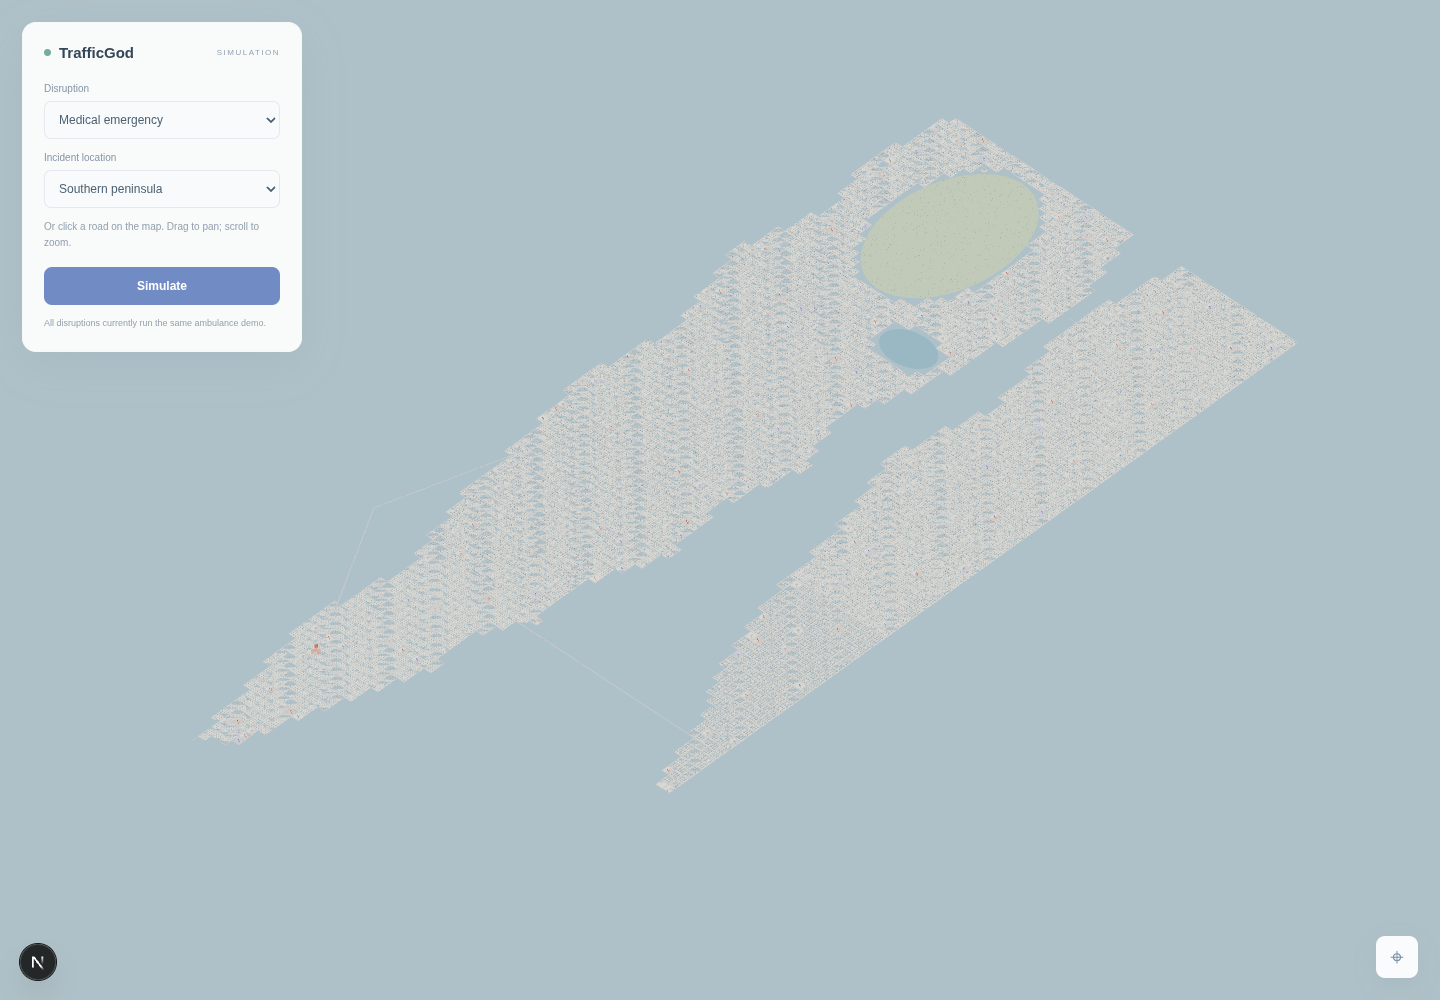
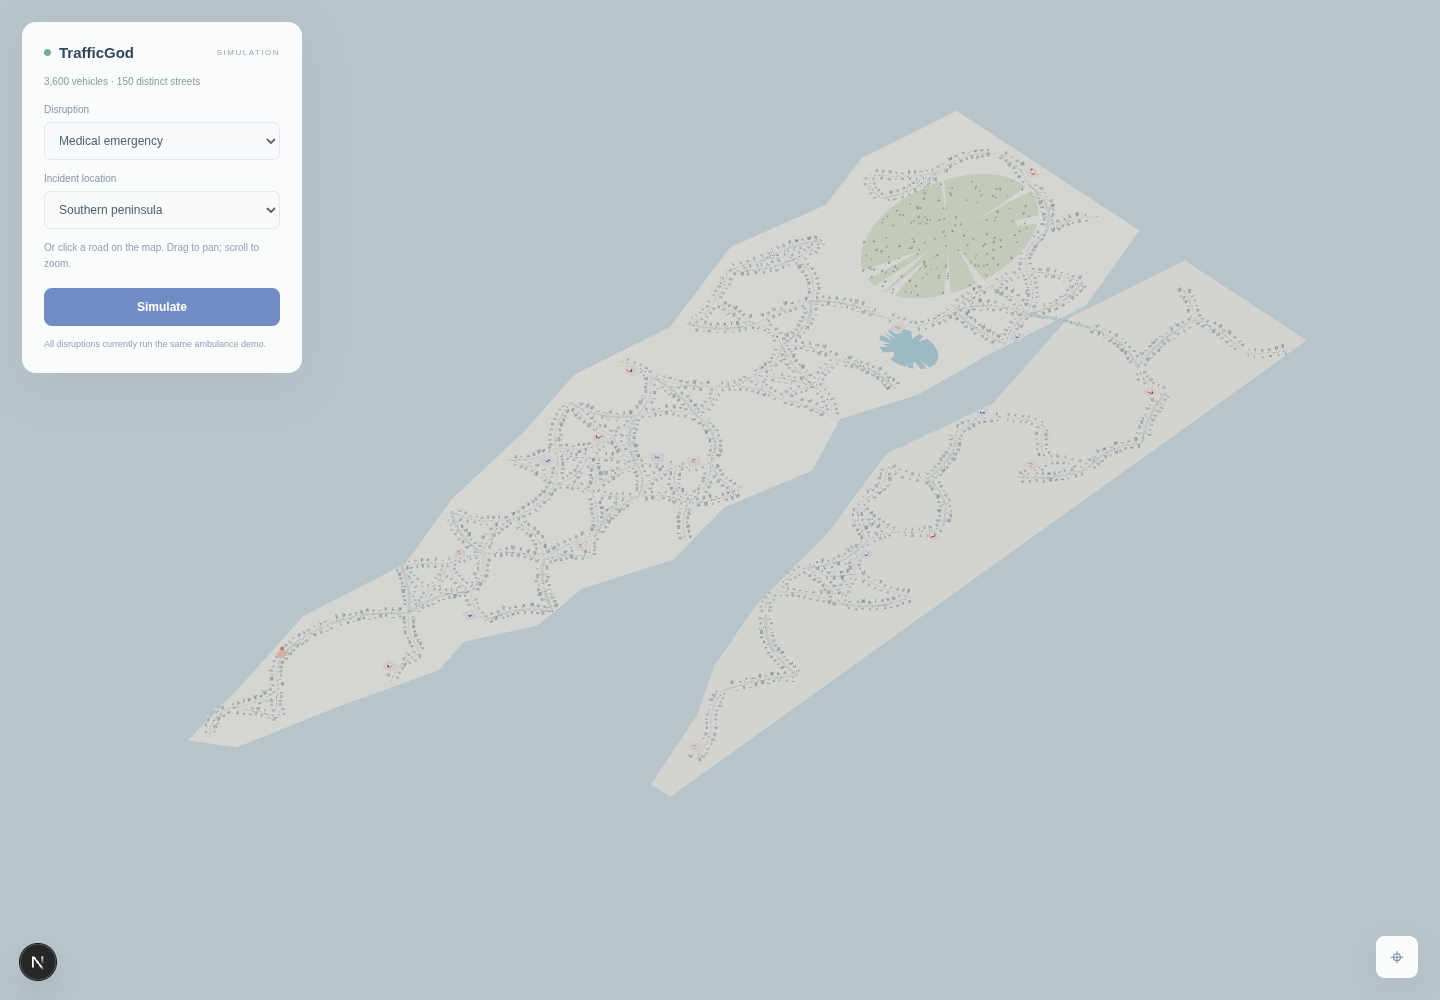
Correct coastal terrain depth and mix vehicle paints on every road

Changed region(s): [[0.125, 0.093, 0.9062, 0.806], [0.0, 0.062, 0.2188, 0.372], [0.0938, 0.062, 0.125, 0.093]]

diff --git a/3d_models/maps/city-map.js b/3d_models/maps/city-map.js
@@ -36,12 +36,12 @@ export function createCityMap() {
   function polygon(points,color,y,name){
     const shape=new THREE.Shape();points.forEach(([x,z],i)=>i?shape.lineTo(x,-z):shape.moveTo(x,-z));shape.closePath();
     const g=new THREE.ShapeGeometry(shape);g.rotateX(-Math.PI/2);
-    const m=new THREE.Mesh(g,new THREE.MeshStandardMaterial({color,roughness:1,polygonOffset:true,polygonOffsetFactor:1,polygonOffsetUnits:3}));m.position.y=y;m.name=name;m.receiveShadow=true;city.add(m);
+    const m=new THREE.Mesh(g,new THREE.MeshStandardMaterial({color,roughness:1,polygonOffset:true,polygonOffsetFactor:0,polygonOffsetUnits:1}));m.position.y=y;m.name=name;m.receiveShadow=true;city.add(m);
   }
   const sea=new THREE.Mesh(new THREE.PlaneGeometry(20000,20000),new THREE.MeshStandardMaterial({color:'#b4cfde',roughness:1}));sea.rotation.x=-Math.PI/2;sea.position.y=-.15;sea.name='sea-and-harbor';city.add(sea);
   polygon(PENINSULA,'#edf0eb',.02,'peninsula');polygon(MAINLAND,'#e9eee8',.02,'mainland');
   for(const [name,x,z,rx,rz,color] of [['forest',-1200,-8900,1350,2000,'#c7d9c0'],['lake',400,-6100,650,450,'#93bed5']]){
-    const m=new THREE.Mesh(new THREE.CircleGeometry(1,48),new THREE.MeshStandardMaterial({color,roughness:1,polygonOffset:true,polygonOffsetFactor:-1,polygonOffsetUnits:-3}));
+    const m=new THREE.Mesh(new THREE.CircleGeometry(1,48),new THREE.MeshStandardMaterial({color,roughness:1,polygonOffset:true,polygonOffsetFactor:0,polygonOffsetUnits:-1}));
     m.rotation.x=-Math.PI/2;m.position.set(x*S,.07,z*S);m.scale.set(rx*S,rz*S,1);m.name=name;city.add(m);
   }
   let treeCount=0,buildingCount=0;

diff --git a/simulation/demo-controller.js b/simulation/demo-controller.js
@@ -83,7 +83,7 @@ export class CivilianTraffic {
       const road=this.roads[i%this.roads.length],reverse=!road.oneWay&&Math.floor(i/this.roads.length)%2===1;
       let kind=i%20<12?'bike':i%20<19?'car':'truck';if(road.lanes===1&&kind==='truck')kind='car';
       const model=kind==='bike'?BIKES[i%BIKES.length]:kind==='car'?CARS[(i+Math.floor(i/20))%CARS.length]:TRUCKS[i%TRUCKS.length];
-      const agent={id:i,road:road.id,a:reverse?road.b:road.a,b:reverse?road.a:road.b,t:this.random()*.95,speed:kind==='bike'?7+this.random()*4:5+this.random()*4,kind,model,colorIndex:i%6,lane:i%2,offset:0,stopped:false,pose:null};
+      const agent={id:i,road:road.id,a:reverse?road.b:road.a,b:reverse?road.a:road.b,t:this.random()*.95,speed:kind==='bike'?7+this.random()*4:5+this.random()*4,kind,model,colorIndex:(i+Math.floor(i/this.roads.length))%6,lane:i%2,offset:0,stopped:false,pose:null};
       agent.offset=this.laneOffset(agent,road);this.agents.push(agent);
     }
   }

diff --git a/tests/simulation.test.js b/tests/simulation.test.js
@@ -95,3 +95,13 @@ test('dense mixed traffic covers all 150 roads and stays batched for rendering',
   assert.ok(traffic.agents.every(a=>Object.values(a.pose).every(Number.isFinite)));
   fleet.dispose();disposeCityMap(city);
 });
+
+test('a clicked point halfway along a curved road is reached exactly, then the ambulance returns',()=>{
+  const city=createCityMap(),map=city.userData,road=map.roads.find(r=>!r.bridge&&r.length>300),p=road.points[8],c=new AmbulanceDemoController(map);
+  c.start(road.a,'accident',{x:p.x,z:p.z,roadId:road.id,along:p.distance});
+  while(c.phase==='outbound')c.tick(.25);
+  assert.equal(c.phase,'at-incident');assert.ok(Math.hypot(c.pose.x-p.x,c.pose.z-p.z)<.001);
+  for(let i=0;i<2000&&c.phase!=='completed';i++)c.tick(.25);
+  assert.equal(c.phase,'completed');assert.ok(Math.hypot(c.pose.x-c.hospital.entrance.x,c.pose.z-c.hospital.entrance.z)<.001);
+  disposeCityMap(city);
+});
